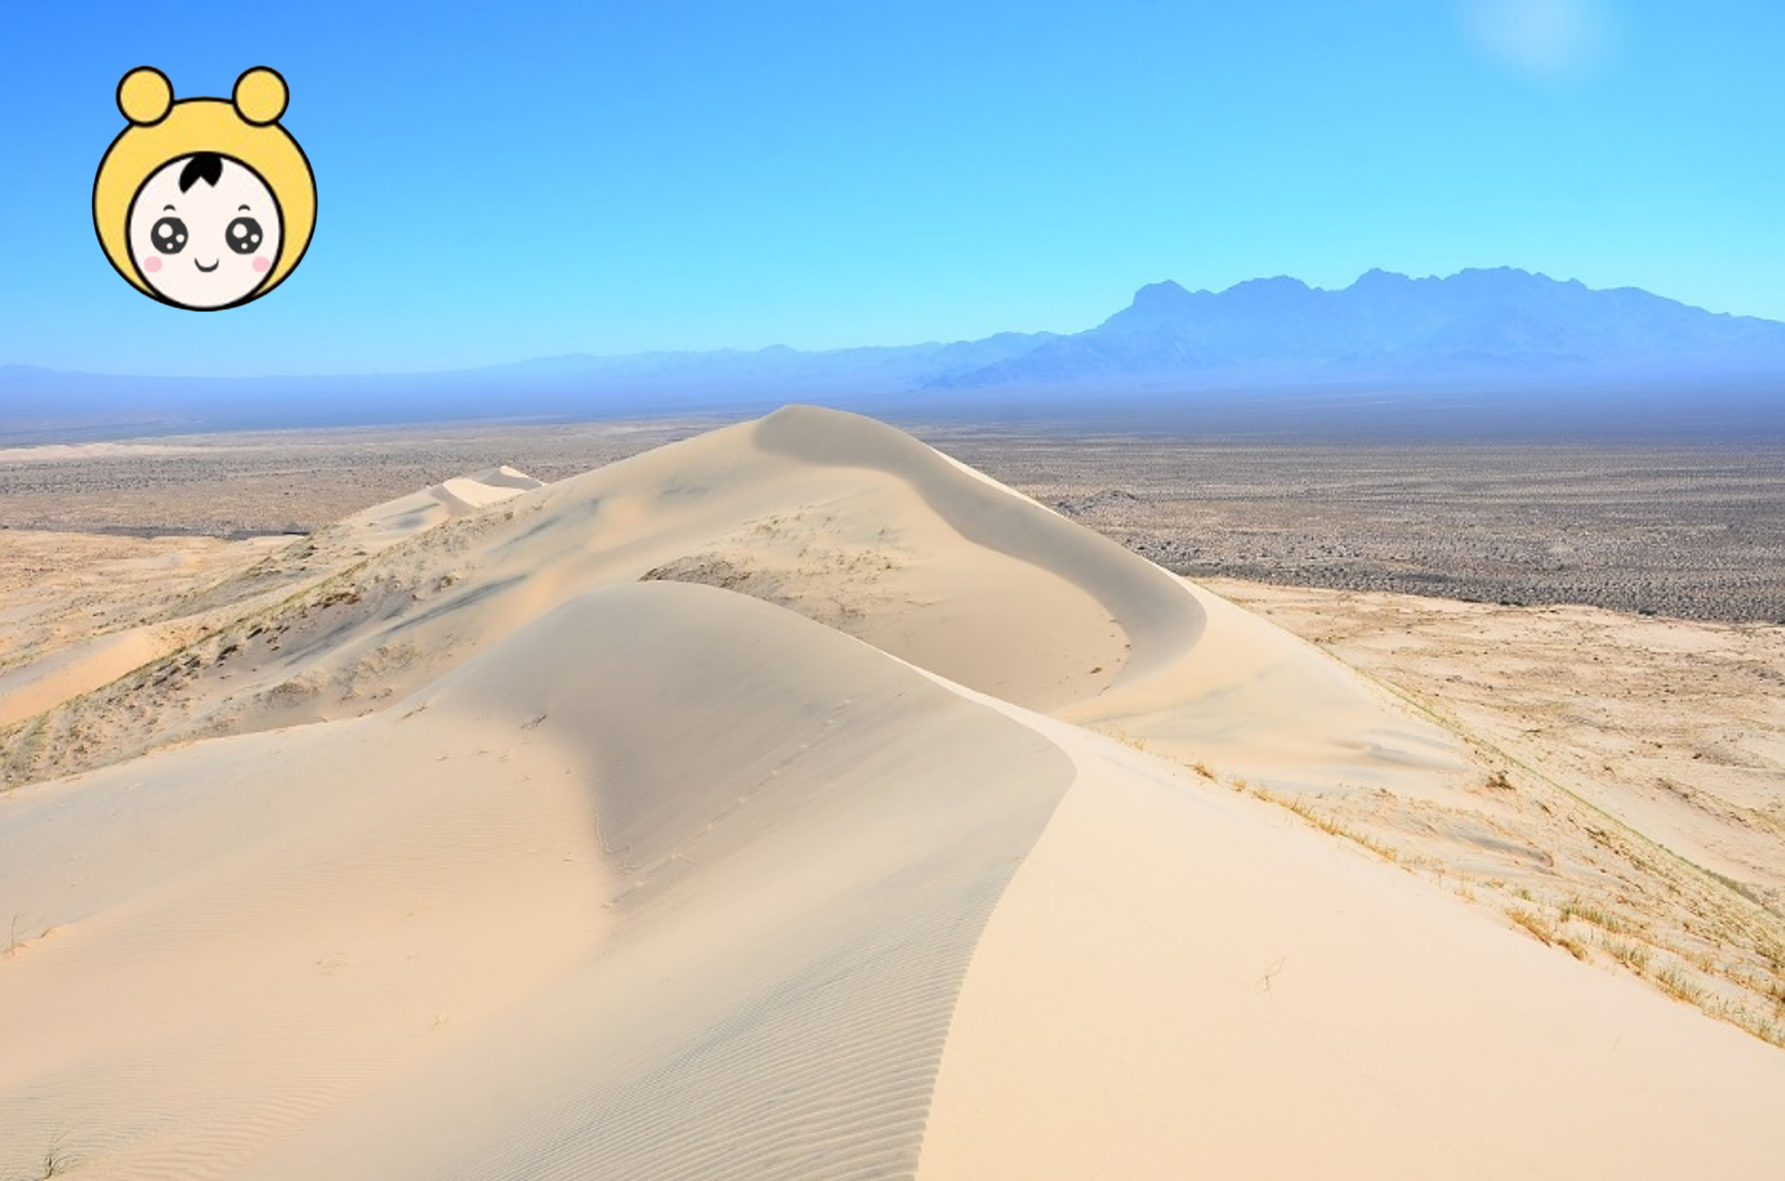
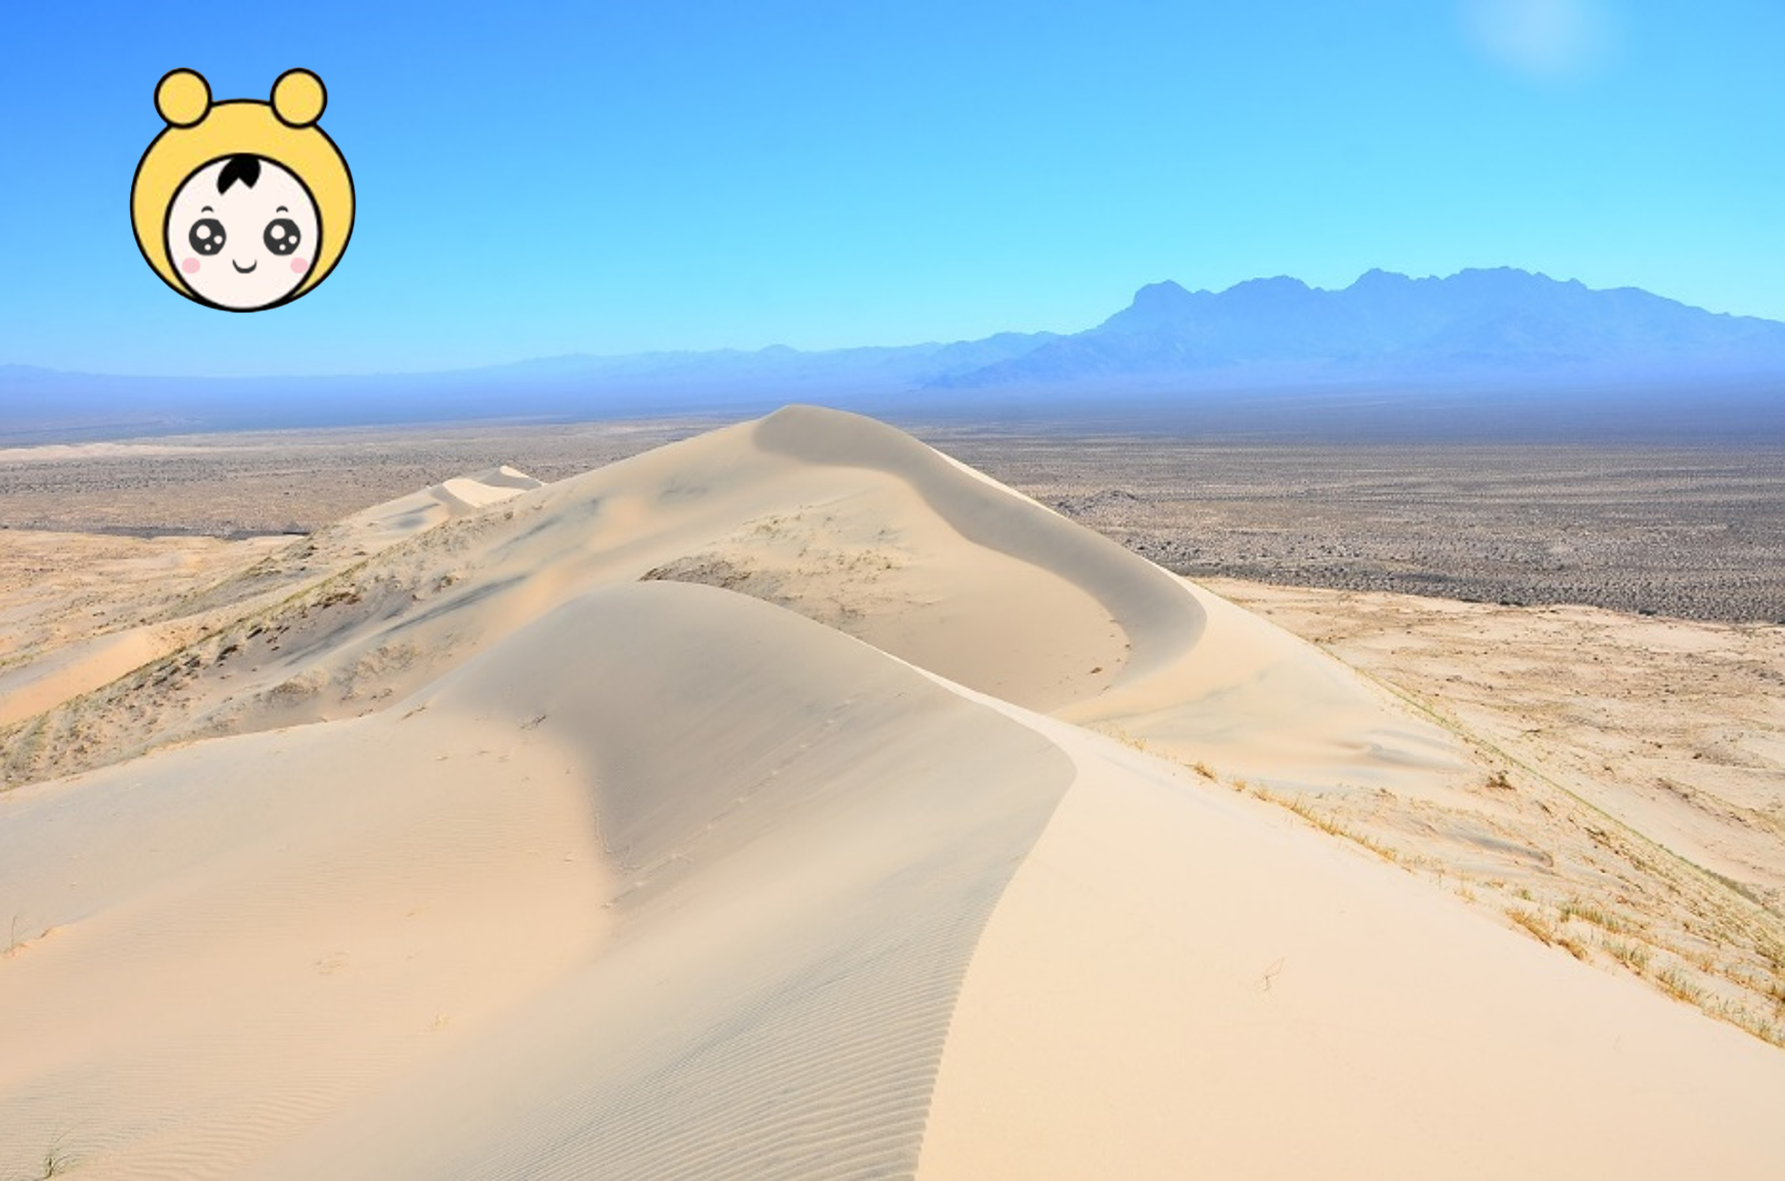
[Feat] picture watermark delete
Former-commit-id: f7841a489db4a1a3cdb03c3703ffc42854099228

Changed region(s): [[0.0308, 0.061, 0.2157, 0.2743]]

diff --git a/frontend/src/components/kids/KidsPicture.vue b/frontend/src/components/kids/KidsPicture.vue
@@ -231,7 +231,7 @@ export default {
 #taj {
   height: 100vh;
   width: 100vw;
-  background-image: url("../../assets/images/Taj.png");
+  background-image: url("../../assets/images/taj.jpg");
   background-position: center center;
   background-repeat: no-repeat;
   background-size: cover;
@@ -240,7 +240,7 @@ export default {
 #desert {
   height: 100vh;
   width: 100vw;
-  background-image: url("../../assets/images/Desert.png");
+  background-image: url("../../assets/images/desert.jpg");
   background-position: center center;
   background-repeat: no-repeat;
   background-size: cover;
@@ -249,7 +249,7 @@ export default {
 #moon {
   height: 100vh;
   width: 100vw;
-  background-image: url("../../assets/images/Moon.png");
+  background-image: url("../../assets/images/moon.jpg");
   background-position: center center;
   background-repeat: no-repeat;
   background-size: cover;
@@ -258,7 +258,7 @@ export default {
 #beach {
   height: 100vh;
   width: 100vw;
-  background-image: url("../../assets/images/Beach.png");
+  background-image: url("../../assets/images/beach.jpg");
   background-position: center center;
   background-repeat: no-repeat;
   background-size: cover;
@@ -267,7 +267,7 @@ export default {
 #christ {
   height: 100vh;
   width: 100vw;
-  background-image: url("../../assets/images/Christ.png");
+  background-image: url("../../assets/images/Christ.jpg");
   background-position: center center;
   background-repeat: no-repeat;
   background-size: cover;

diff --git a/frontend/src/views/kids/KidsMainView.vue b/frontend/src/views/kids/KidsMainView.vue
@@ -71,16 +71,30 @@
       <v-col class="text-center my-10" style="min-height: 300px">
         <!-- 기본 -->
         <img
-          v-if="!actionOnOff"
+          v-show="!actionOnOff"
           class="character"
           src="../../assets/characters/character.png"
           height="240px"
           width="150px"
           alt="character"
         />
+        <div
+          v-show="!actionOnOff"
+          style="display: flex; justify-content: center; align-items: center"
+        >
+          <div style="z-index: 2; position: absolute">
+            <img
+              v-if="!(sleep || dirty || hungry) && character.exist_talk"
+              src="../../assets/characters/wantTalk.png"
+              height="140px"
+              width="150px"
+              style="position: absolute; top: -350px; right: -250px"
+            />
+          </div>
+        </div>
         <!-- 행동 -->
         <div
-          v-else
+          v-show="actionOnOff"
           style="display: flex; justify-content: center; align-items: center"
         >
           <div style="z-index: 2; position: absolute">
